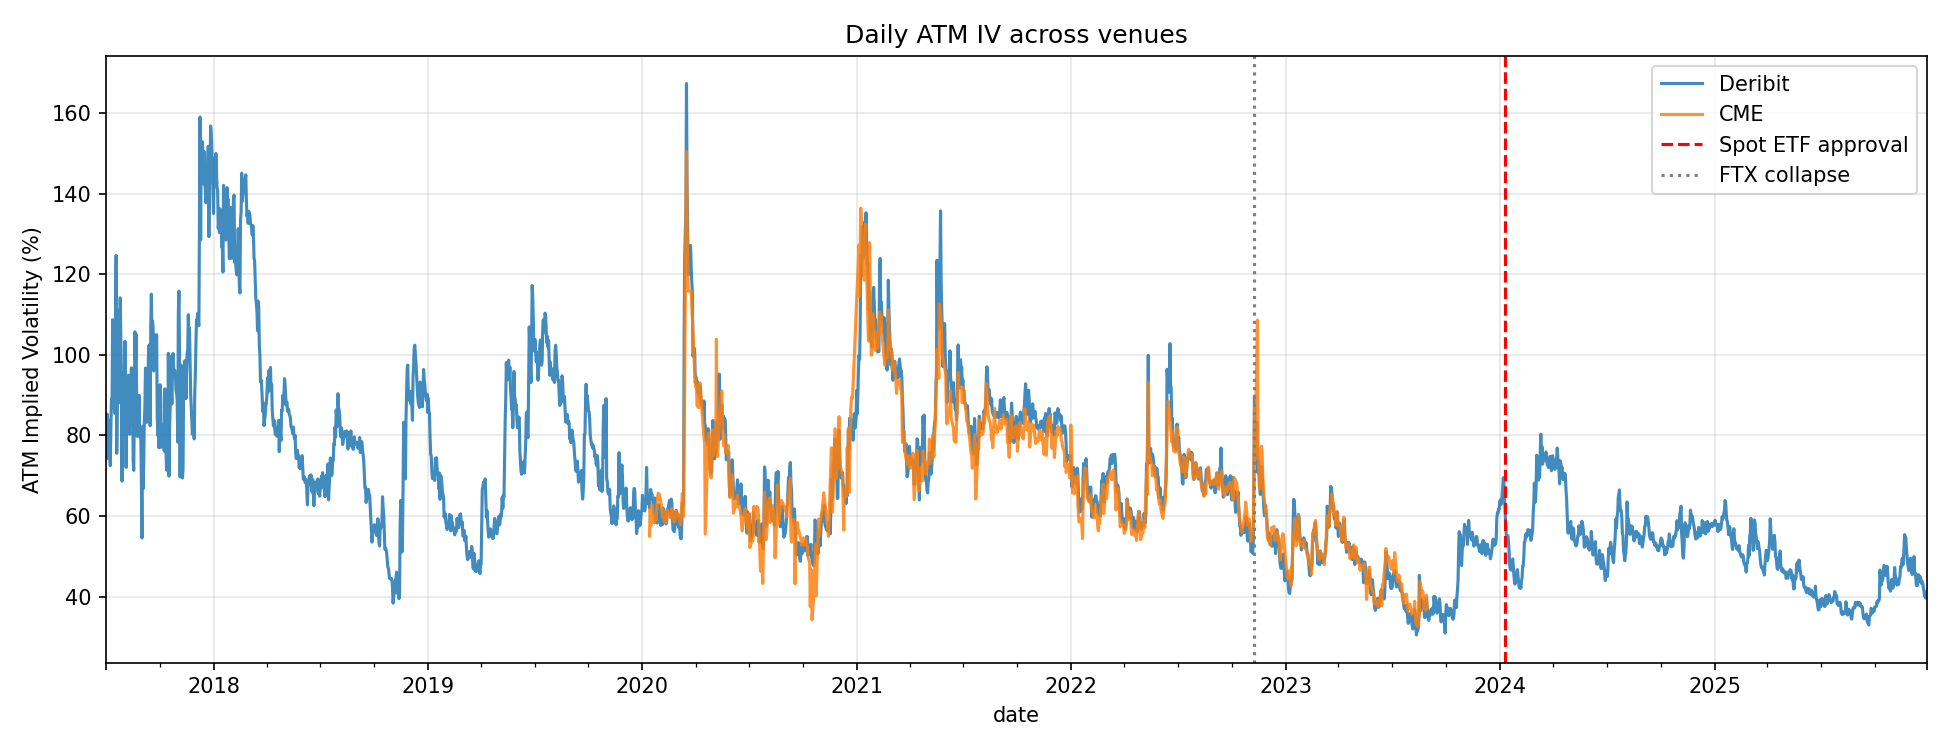
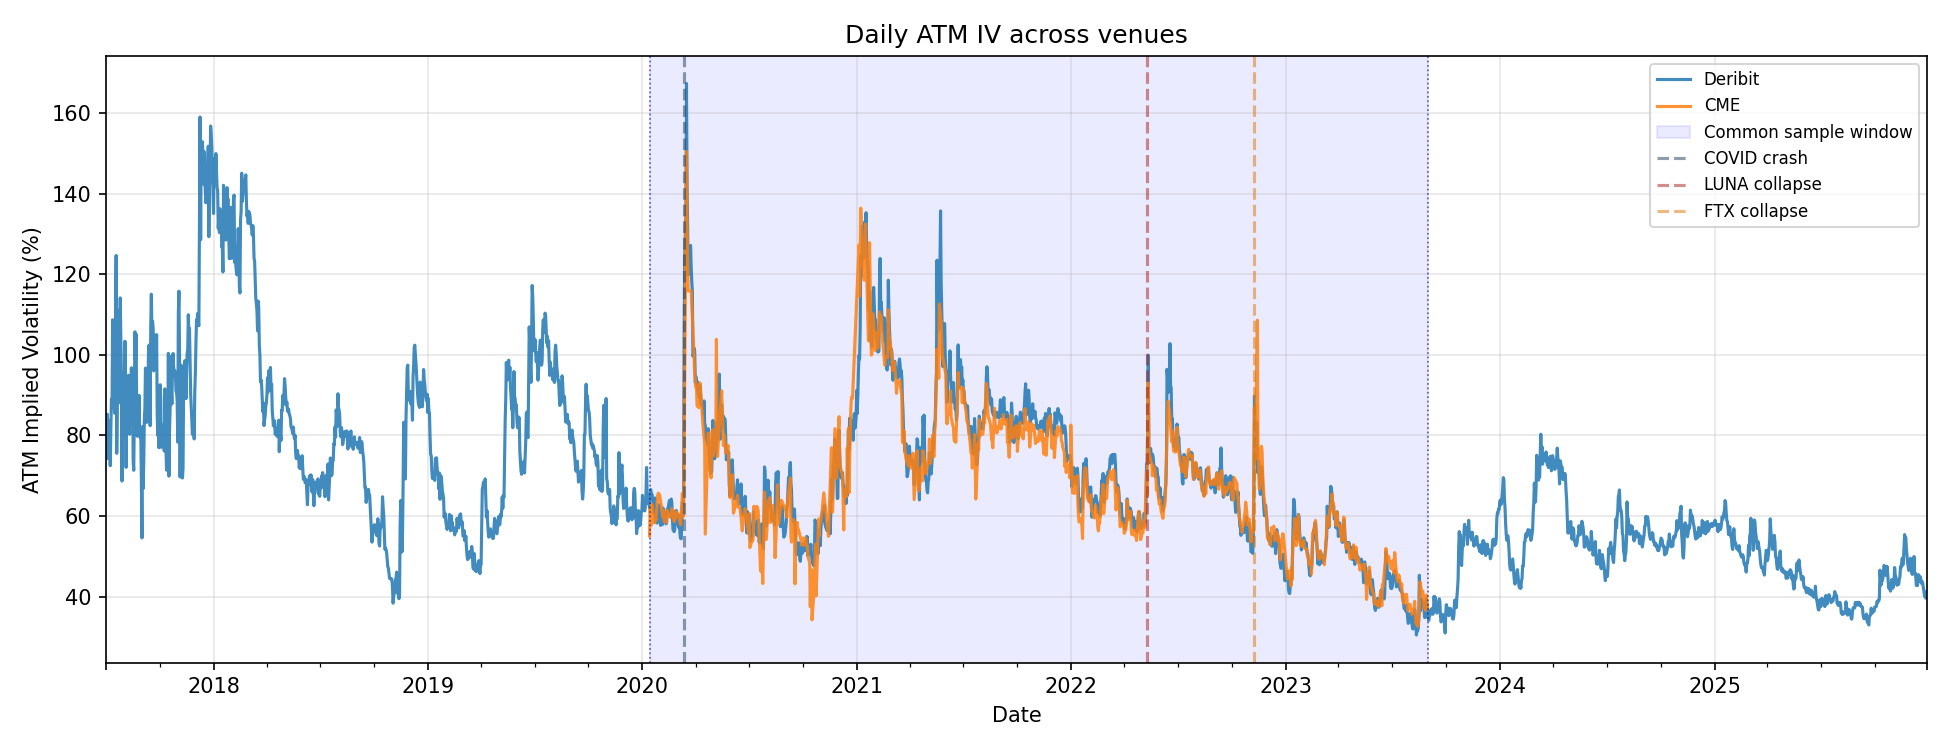
Notebook 01 Update Common Window

Changed region(s): [[0.8308, 0.0613, 0.9846, 0.3067], [0.4923, 0.9507, 0.5231, 0.9813]]

diff --git a/notebooks/markdowns/01_preprocessing.md b/notebooks/markdowns/01_preprocessing.md
@@ -38,24 +38,39 @@ if funding is not None:
 
 
 ```python
+SAMPLE_START = pd.Timestamp('2020-01-13')
+SAMPLE_END   = pd.Timestamp('2023-08-31')
+
 daily_cme = cme.groupby('date').size().rename('CME')
 daily_der = der.groupby('date').size().rename('Deribit')
 
 fig, ax = plt.subplots(figsize=(13, 5))
 daily_der.plot(ax=ax, label='Deribit', alpha=0.7)
 daily_cme.plot(ax=ax, label='CME', alpha=0.7)
-ax.axvline(pd.Timestamp('2024-01-10'), color='red', linestyle='--',
-           label='Spot ETF approval (Jan 2024)')
+
+ax.axvspan(SAMPLE_START, SAMPLE_END, alpha=0.08, color='blue', label='Common sample window')
+ax.axvline(SAMPLE_START, color='navy', linestyle=':', linewidth=0.8, alpha=0.6)
+ax.axvline(SAMPLE_END, color='navy', linestyle=':', linewidth=0.8, alpha=0.6)
+
 ax.set_ylabel('Cleaned options per day')
+ax.set_xlabel('Date')
 ax.set_title('Daily option cross-section size by venue')
-ax.legend()
+ax.legend(loc='upper left')
 plt.tight_layout()
 plt.savefig(FIG_DIR / 'fig_daily_option_counts.png', dpi=150)
 plt.show()
 
-print("Median per day:")
+# Full data
+print("Median per day (full data):")
 print(f"  CME:     {daily_cme.median():>6.0f}")
 print(f"  Deribit: {daily_der.median():>6.0f}")
+
+# Common window only
+cw_cme = daily_cme[(daily_cme.index >= SAMPLE_START) & (daily_cme.index <= SAMPLE_END)]
+cw_der = daily_der[(daily_der.index >= SAMPLE_START) & (daily_der.index <= SAMPLE_END)]
+print(f"\nMedian per day (common window only):")
+print(f"  CME:     {cw_cme.median():>6.0f}")
+print(f"  Deribit: {cw_der.median():>6.0f}")
 ```
 
 
@@ -64,26 +79,24 @@ print(f"  Deribit: {daily_der.median():>6.0f}")
     
 
 
-    Median per day:
+    Median per day (full data):
       CME:         82
       Deribit:    100
     
+    Median per day (common window only):
+      CME:         82
+      Deribit:    102
+    
 
-#### 2. ATM Implied Volatility Time Series (Thesis Figure 1)
+#### 2. ATM Implied Volatility Time Series
 
 
 ```python
 def atm_iv_series(df, venue_label):
-    """
-    Extract daily ATM IV: for each (date, expiration), pick the strike
-    closest to the forward, then average across expirations.
-    """
     df = df.copy()
     df['abs_kappa'] = df['log_moneyness'].abs()
-    # Closest-to-ATM option per (date, expiration)
     idx = df.groupby(['date', 'expiration'])['abs_kappa'].idxmin()
     atm = df.loc[idx]
-    # Average across expirations per day
     return atm.groupby('date')['impliedvolatility'].mean()
 
 atm_cme = atm_iv_series(cme, 'CME')
@@ -92,13 +105,19 @@ atm_der = atm_iv_series(der, 'Deribit')
 fig, ax = plt.subplots(figsize=(13, 5))
 (atm_der * 100).plot(ax=ax, label='Deribit', alpha=0.85)
 (atm_cme * 100).plot(ax=ax, label='CME', alpha=0.85)
-ax.axvline(pd.Timestamp('2024-01-10'), color='red', linestyle='--',
-           label='Spot ETF approval')
-ax.axvline(pd.Timestamp('2022-11-08'), color='gray', linestyle=':',
-           label='FTX collapse')
+
+ax.axvspan(SAMPLE_START, SAMPLE_END, alpha=0.08, color='blue', label='Common sample window')
+ax.axvline(SAMPLE_START, color='navy', linestyle=':', linewidth=0.8, alpha=0.6)
+ax.axvline(SAMPLE_END, color='navy', linestyle=':', linewidth=0.8, alpha=0.6)
+
+ax.axvline(pd.Timestamp('2020-03-12'), color='#1C3D5A', linestyle='--', alpha=0.5, label='COVID crash')
+ax.axvline(pd.Timestamp('2022-05-09'), color='#A61C1C', linestyle='--', alpha=0.5, label='LUNA collapse')
+ax.axvline(pd.Timestamp('2022-11-08'), color='#D97706', linestyle='--', alpha=0.5, label='FTX collapse')
+
 ax.set_ylabel('ATM Implied Volatility (%)')
+ax.set_xlabel('Date')
 ax.set_title('Daily ATM IV across venues')
-ax.legend()
+ax.legend(loc='upper right', fontsize=8)
 plt.tight_layout()
 plt.savefig(FIG_DIR / 'fig_atm_iv_timeseries.png', dpi=150)
 plt.show()
@@ -318,6 +337,10 @@ else:
 
 
 ```python
+der_cw = der[(der['date'] >= SAMPLE_START) & (der['date'] <= SAMPLE_END)]
+daily_der_cw = der_cw.groupby('date').size()
+slices_der_cw = der_cw.groupby(['date', 'expiration']).size().reset_index(name='n')
+
 summary = pd.DataFrame({
     'CME': [
         len(cme),
@@ -330,30 +353,35 @@ summary = pd.DataFrame({
         (cme['callput']=='P').sum(),
     ],
     'Deribit': [
-        len(der),
-        der['date'].nunique(),
-        der['date'].min().date(),
-        der['date'].max().date(),
-        round(daily_der.median()),
-        round(slices_der['n'].median()),
-        (der['callput']=='C').sum(),
-        (der['callput']=='P').sum(),
+        len(der_cw),
+        der_cw['date'].nunique(),
+        der_cw['date'].min().date(),
+        der_cw['date'].max().date(),
+        round(daily_der_cw.median()),
+        round(slices_der_cw['n'].median()),
+        (der_cw['callput']=='C').sum(),
+        (der_cw['callput']=='P').sum(),
     ],
 }, index=['Cleaned rows', 'Trading days', 'Sample start', 'Sample end',
          'Median options/day', 'Median options/slice', 'Calls', 'Puts'])
+
 print(summary)
 summary.to_csv(PROJECT_ROOT / 'results' / 'data' / 'tables' / 'data_summary.csv')
+print(f"\nNote: Deribit rows scoped to common window "
+      f"({SAMPLE_START.date()} – {SAMPLE_END.date()})")
 ```
 
                                  CME     Deribit
-    Cleaned rows               65598      327202
-    Trading days                 802        3105
-    Sample start          2020-01-13  2017-07-01
-    Sample end            2023-08-31  2025-12-30
-    Median options/day            82         100
-    Median options/slice          21          22
-    Calls                      34414      180908
-    Puts                       31184      146294
+    Cleaned rows               65598      135276
+    Trading days                 802        1327
+    Sample start          2020-01-13  2020-01-13
+    Sample end            2023-08-31  2023-08-31
+    Median options/day            82         102
+    Median options/slice          21          20
+    Calls                      34414       75024
+    Puts                       31184       60252
+    
+    Note: Deribit rows scoped to common window (2020-01-13 – 2023-08-31)
     
 
 #### 8. Grid parameters optimization